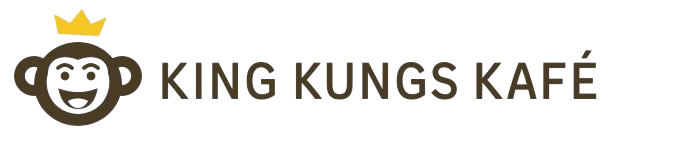
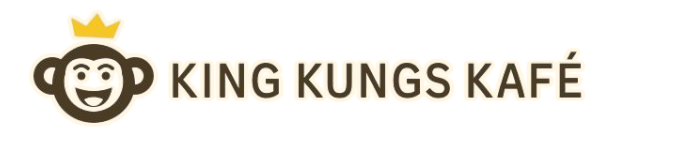
feat(kkk_logo): added a slight highlight for better visibility on dark bg

Changed region(s): [[0.0, 0.0533, 0.8956, 0.8533]]

diff --git a/mobile/lib/features/new_order/presentation/widgets/menu_selector/choose_menu_modal.dart b/mobile/lib/features/new_order/presentation/widgets/menu_selector/choose_menu_modal.dart
@@ -58,14 +58,6 @@ class _ChooseMenuModalState extends ConsumerState<ChooseMenuModal> {
   Widget build(BuildContext context) {
     final mediaQuery = MediaQuery.of(context);
     final maxHeight = mediaQuery.size.height * 0.88;
-    final selectedBrandColor = KkfcBrand.colorFor(
-      _selectedBrand.code,
-      _selectedBrand.name,
-    );
-    final selectedBrandTint = KkfcBrand.tintFor(
-      _selectedBrand.code,
-      _selectedBrand.name,
-    );
 
     return Container(
       constraints: BoxConstraints(maxHeight: maxHeight),
@@ -327,7 +319,7 @@ class _ChooseMenuModalState extends ConsumerState<ChooseMenuModal> {
                           }
                         : null,
                     child: ConstrainedBox(
-                      constraints: const BoxConstraints(minHeight: 76.0),
+                      constraints: const BoxConstraints(minHeight: 80.0),
                       child: Padding(
                         padding: const EdgeInsets.symmetric(
                           horizontal: 16.0,
@@ -476,8 +468,8 @@ class _ChooseMenuModalState extends ConsumerState<ChooseMenuModal> {
                                 ),
                                 child: Container(
                                   constraints: const BoxConstraints(
-                                    maxHeight: 42.0,
-                                    maxWidth: 110.0,
+                                    maxHeight: 52.0,
+                                    maxWidth: 135.0,
                                   ),
                                   child: Image.asset(
                                     logoAsset,
@@ -487,7 +479,7 @@ class _ChooseMenuModalState extends ConsumerState<ChooseMenuModal> {
                                     semanticLabel: brand.name,
                                     errorBuilder: (_, _, _) => BrandLogo(
                                       brand: brand,
-                                      height: 26.0,
+                                      height: 32.0,
                                     ),
                                   ),
                                 ),
@@ -497,7 +489,7 @@ class _ChooseMenuModalState extends ConsumerState<ChooseMenuModal> {
                                 padding: const EdgeInsets.symmetric(
                                   horizontal: 10.0,
                                 ),
-                                child: BrandLogo(brand: brand, height: 26.0),
+                                child: BrandLogo(brand: brand, height: 32.0),
                               ),
 
                             // Right: Selection Indicator (Checkmark / Radio outline)
